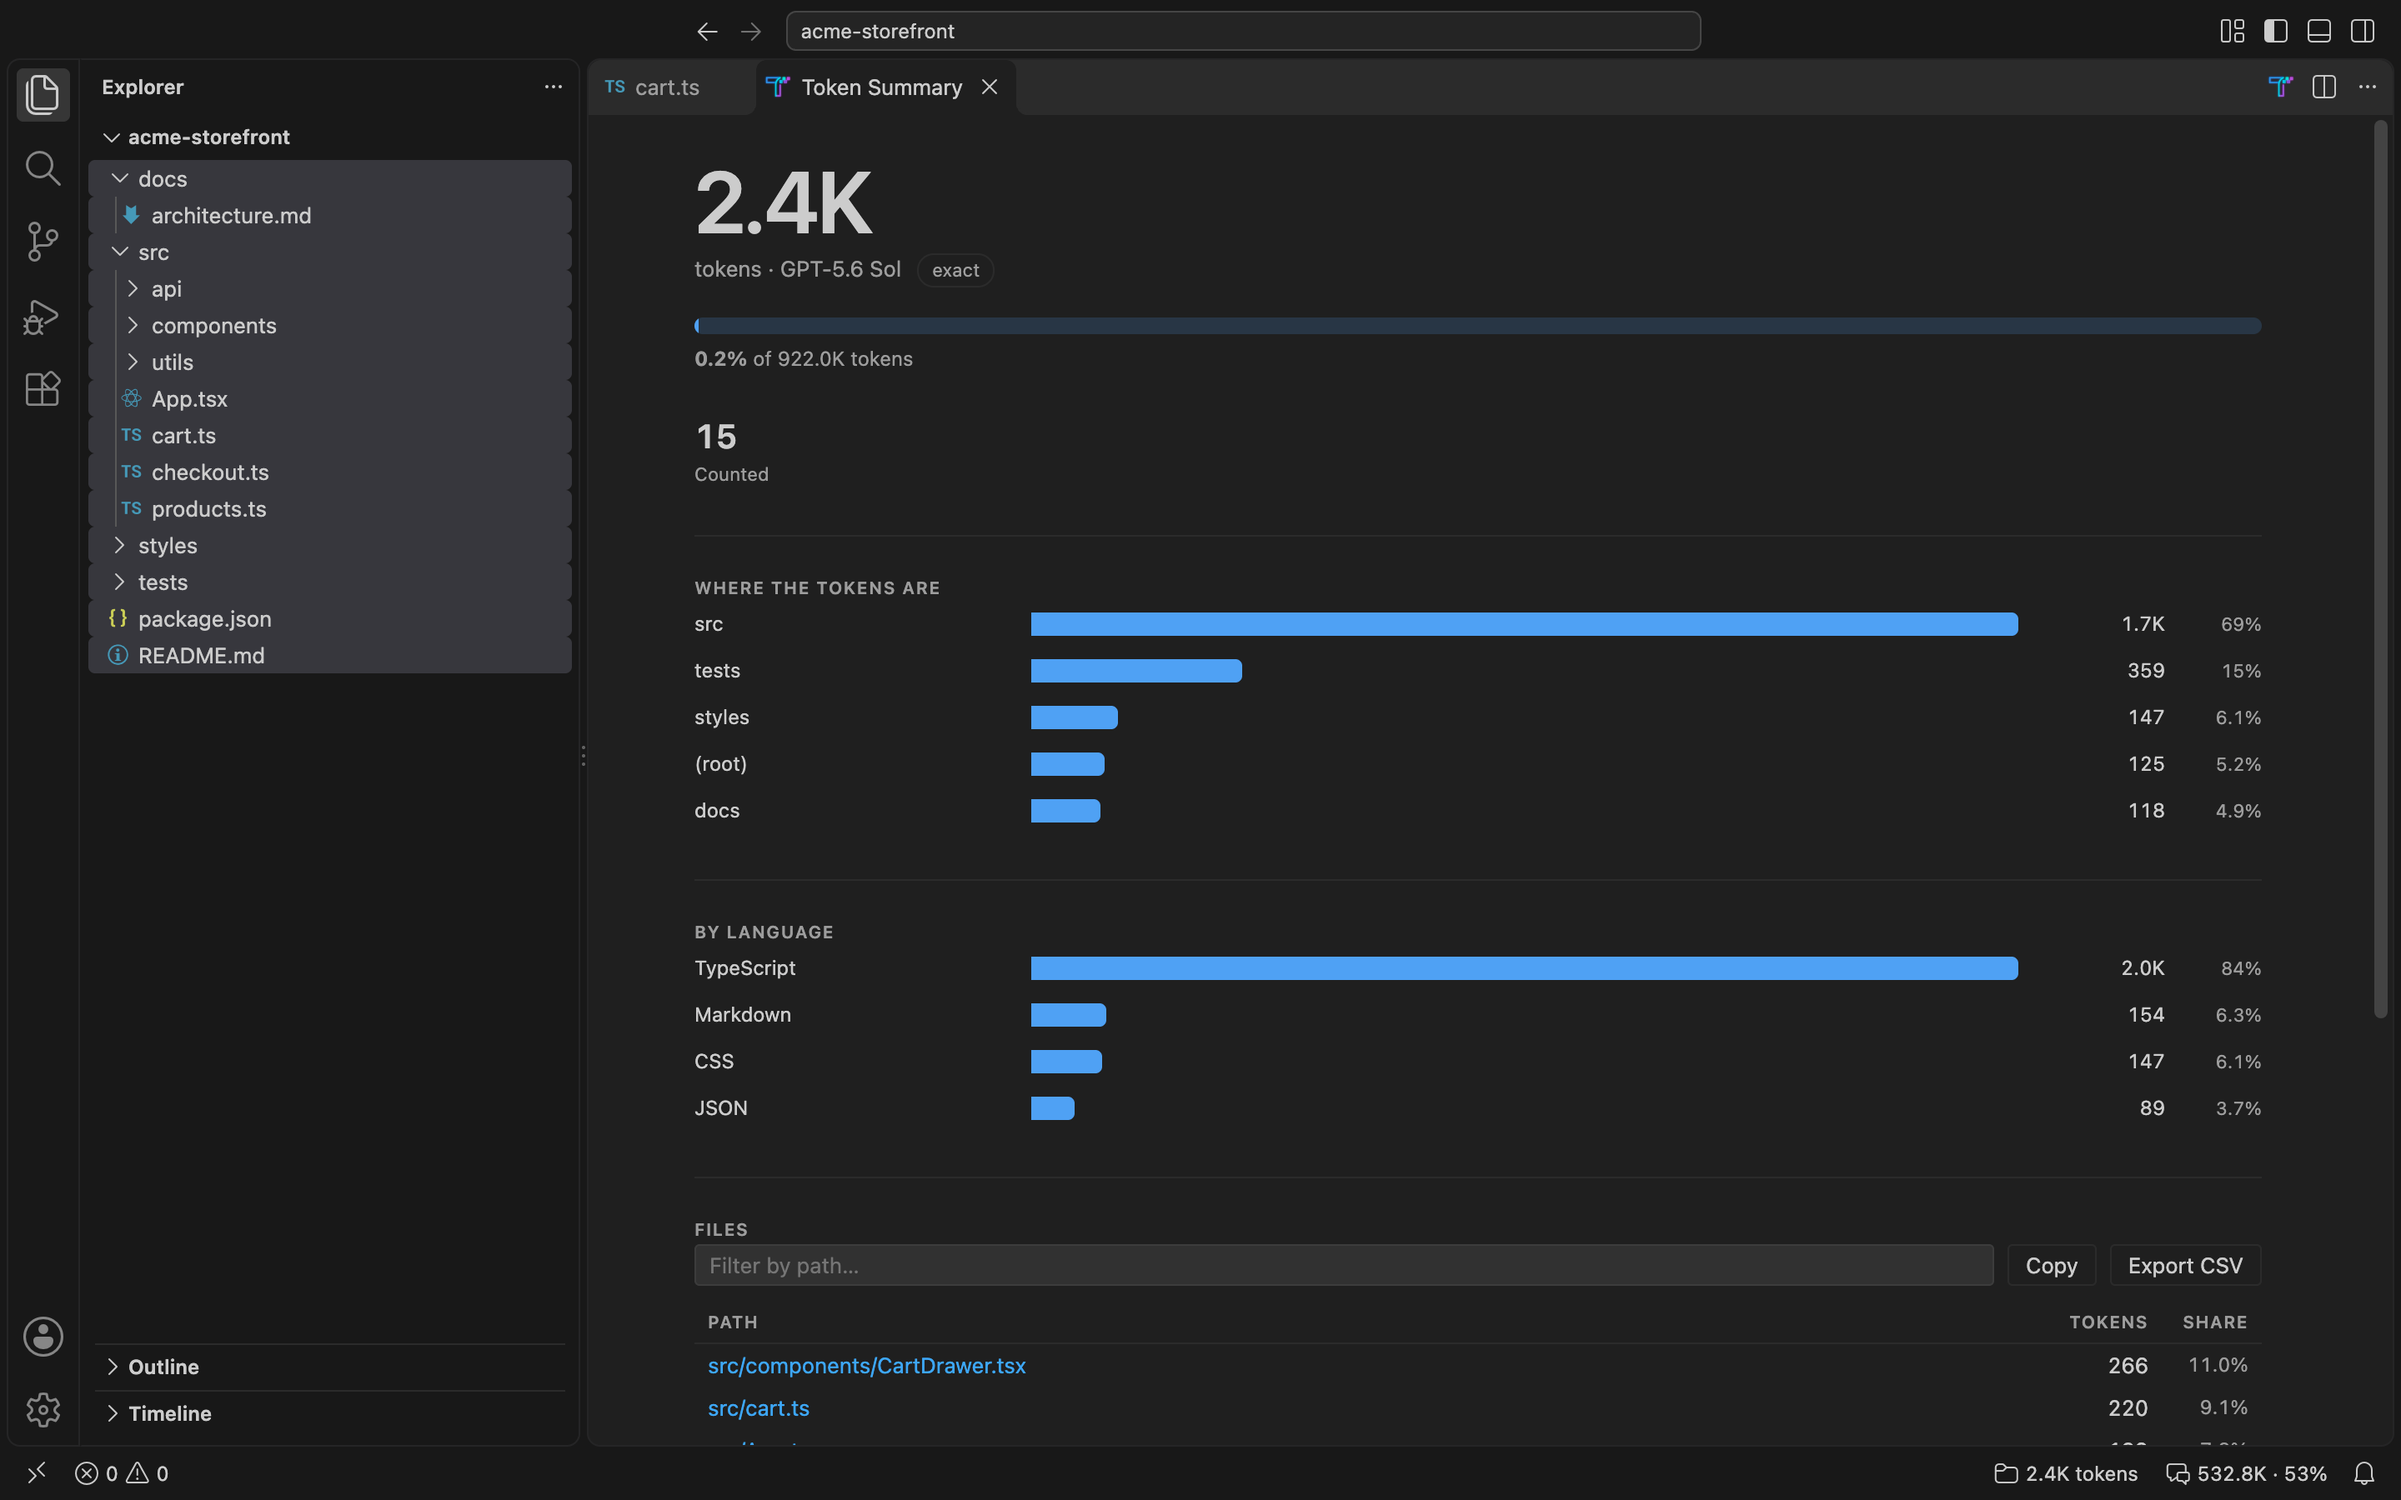
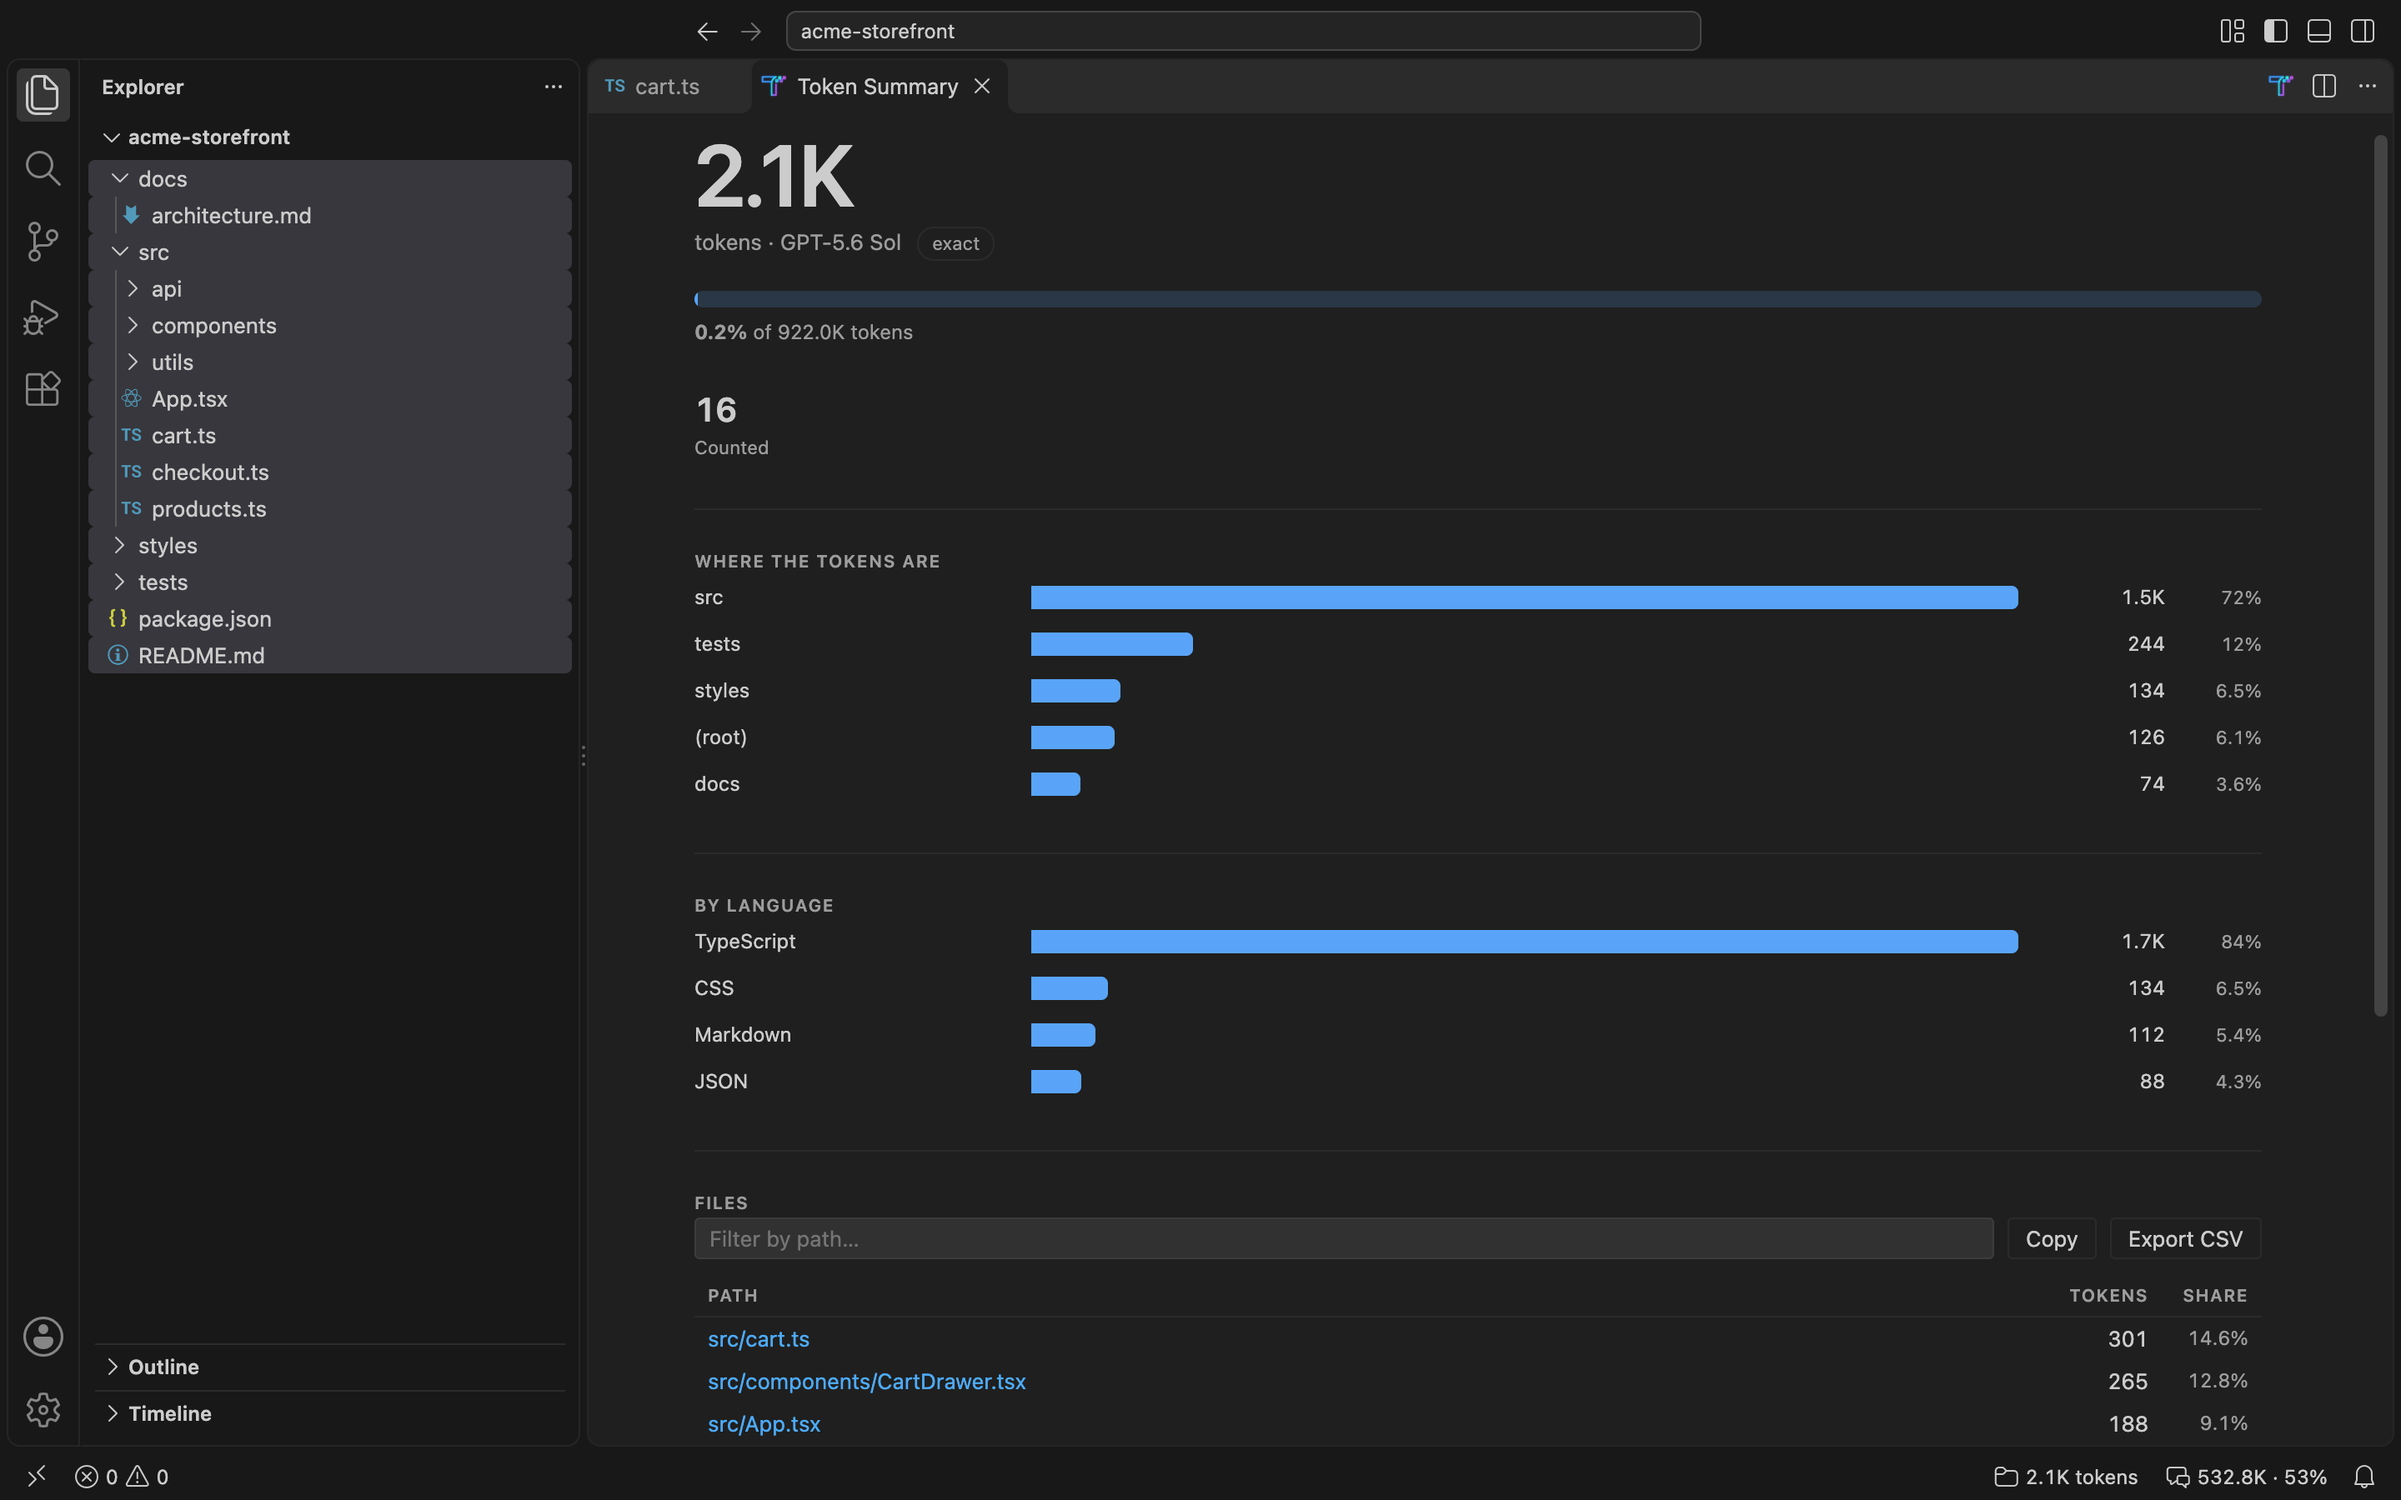
docs: the README's images and GIF, as 2.2.1 shows them
Made again with scripts/screenshots on invented data, in VS Code 1.143.1
with this build: the usage panel's total line with its cache-read share,
every share cut alike, the token summary, and the status item's tooltip,
in dark and light at 2x, and the GIF from the editor's T to the
projects, the sessions and the status item. Every page is drawn at 2x,
the webviews included, no row is cut by an edge, and the alt texts give
the figures the images show.

diff --git a/README.md b/README.md
@@ -33,7 +33,7 @@ Stop copying and pasting into web calculators. Get precise counts right where yo
 
 <picture>
   <source media="(prefers-color-scheme: light)" srcset="https://raw.githubusercontent.com/matteo-teodori/llm-tokenizer/main/docs/images/token-summary-light.png">
-  <img src="https://raw.githubusercontent.com/matteo-teodori/llm-tokenizer/main/docs/images/token-summary-dark.png" alt="A folder's count: 2.4K tokens for GPT-5.6 Sol, exact, by folder and by language, with each file's tokens">
+  <img src="https://raw.githubusercontent.com/matteo-teodori/llm-tokenizer/main/docs/images/token-summary-dark.png" alt="The workspace's files counted: 2.1K tokens for GPT-5.6 Sol, exact, in 16 files, by folder and by language, with each file's tokens">
 </picture>
 
 
@@ -175,7 +175,7 @@ history starts, for all projects or for this workspace:
 
 <picture>
   <source media="(prefers-color-scheme: light)" srcset="https://raw.githubusercontent.com/matteo-teodori/llm-tokenizer/main/docs/images/usage-panel-light.png">
-  <img src="https://raw.githubusercontent.com/matteo-teodori/llm-tokenizer/main/docs/images/usage-panel-dark.png" alt="Claude Code usage for 30 days: 1.1B tokens processed in 12,565 requests and 96 sessions, split into cache reads, cache writes, input and output, by day and by model">
+  <img src="https://raw.githubusercontent.com/matteo-teodori/llm-tokenizer/main/docs/images/usage-panel-dark.png" alt="Claude Code usage for 30 days: 1.6B tokens processed, 95% of them cache reads, in 13,027 requests and 87 sessions, split into cache reads, cache writes, input and output, by day and by model">
 </picture>
 
 *Processed* is everything a request sent or received: input, cache writes,
